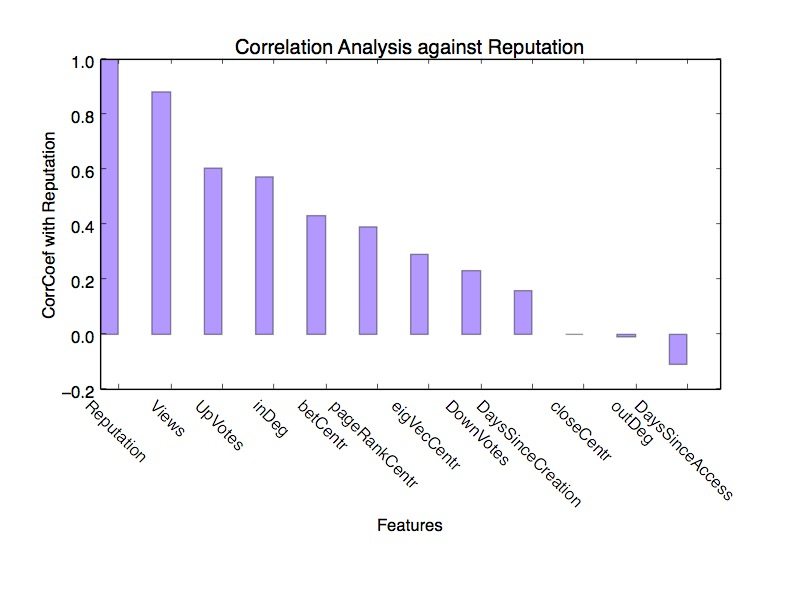
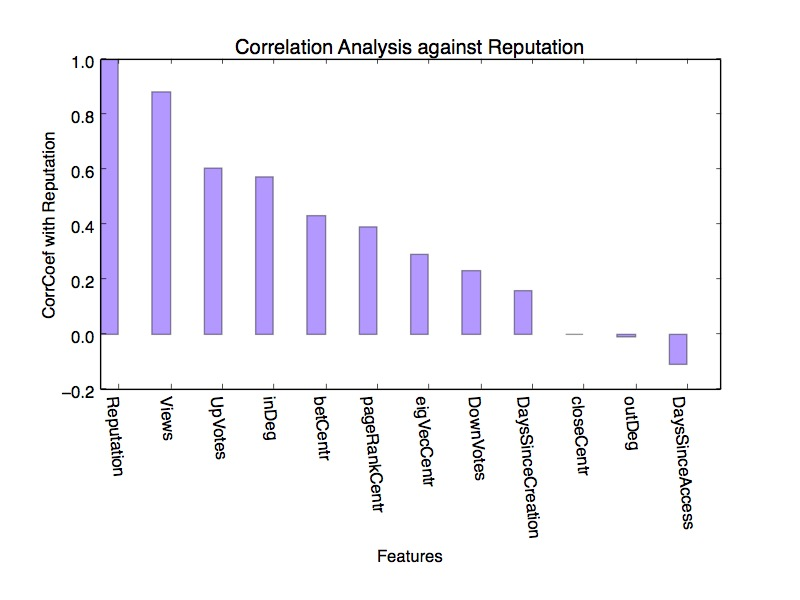
correlationMatrix

Changed region(s): [[0.25, 0.66, 0.9375, 0.96], [0.0938, 0.66, 0.2188, 0.81]]

diff --git a/featureAnalysis.py b/featureAnalysis.py
@@ -4,7 +4,6 @@ import matplotlib.pyplot as plt
 
 def addToFeatureMap(fn, featureMap):
 	print fn
-
 	infile = open(fn,'r')
 	first = True
 	for line in infile:
@@ -16,7 +15,6 @@ def addToFeatureMap(fn, featureMap):
 		badges = [float(x) for x in splitted[1:]]
 		if user_id not in featureMap:
 			featureMap[user_id] = []
-
 		featureMap[user_id] += badges
 
 
@@ -40,10 +38,31 @@ for key in unionMap:
 	for i,x in enumerate(unionMap[key]):
 		reData[i].append(x)
 
-labels = "inDeg,outDeg,closeCentr,betCentr,eigVecCentr,pageRankCentr" + "Views,DownVotes,UpVotes,Reputation,DaysSinceCreation,DaysSinceAccess"
-outfile = open('featureAnalysis.out','w')
+labels = "inDeg,outDeg,closeCentr,betCentr,eigVecCentr,pageRankCentr," + "Views,DownVotes,UpVotes,Reputation,DaysSinceCreation,DaysSinceAccess"
+
 corrOut = np.corrcoef(reData)
-sm.graphics.plot_corr(np.array([[1,0],[0,1]]), xnames=labels.split())
+sm.graphics.plot_corr(corrOut)
+
+labels = "inDeg,outDeg,closeCentr,betCentr,eigVecCentr,pageRankCentr," + "Views,DownVotes,UpVotes,Reputation,DaysSinceCreation,DaysSinceAccess"
+labels = labels.split(',')
+n_groups = len(labels)
+index = np.arange(n_groups)
+bar_width = 0.35
+
+plt.xticks(index + bar_width, labels)
+_, labelsX = plt.xticks()
+plt.setp(labelsX, rotation=275)
+
+plt.yticks(index + bar_width, labels)
+_, labelsY = plt.yticks()
+plt.setp(labelsY, rotation=0)
+
+plt.xlabel("Features")
+plt.ylabel("Features")
+
+plt.gcf().subplots_adjust(bottom=0.35)
+
+
 plt.show()
 l = [str(x) for x in corrOut[9]]
 print ','.join(l) + '\n'

diff --git a/featureAnalysisGraph.py b/featureAnalysisGraph.py
@@ -30,7 +30,7 @@ plt.ylabel('CorrCoef with Reputation')
 plt.title('Correlation Analysis against Reputation')
 plt.xticks(index + bar_width, labels)
 locs, labels = plt.xticks()
-plt.setp(labels, rotation=-45)
+plt.setp(labels, rotation=275)
 #plt.tight_layout()
 plt.gcf().subplots_adjust(bottom=0.35)
 plt.savefig('images/correlationAnalysis.jpg')
